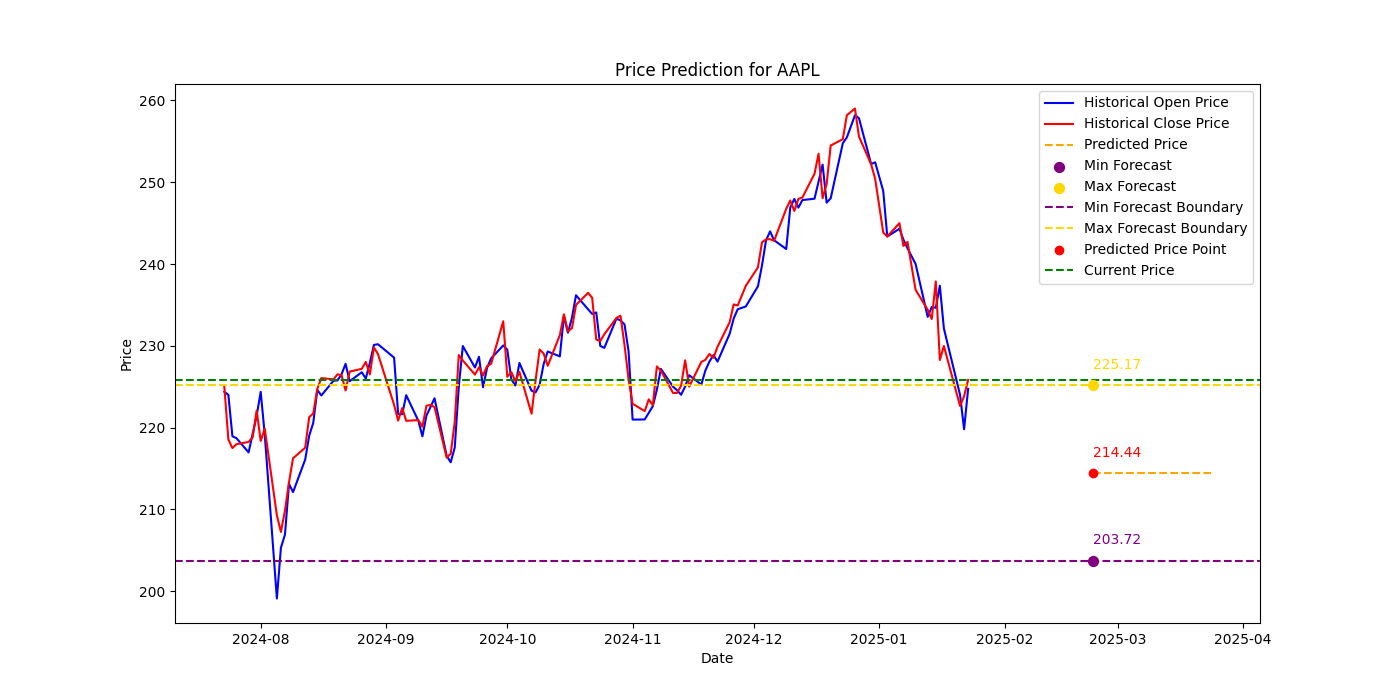
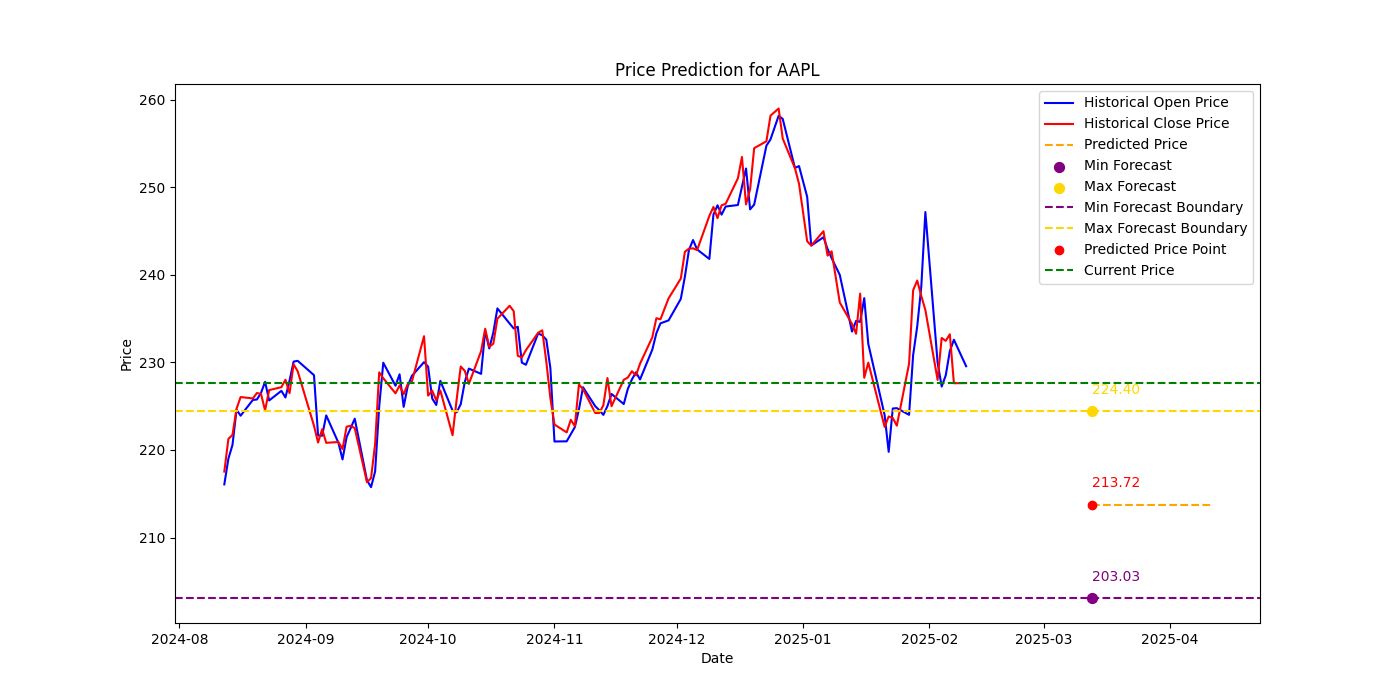
TESTING

diff --git a/src/model/price_core.py b/src/model/price_core.py
@@ -20,35 +20,40 @@ class StockPredictor:
         self.model = load_model(self.model_path)
         self.scaler = joblib.load(self.scaler_path)
 
-    def predict_price(self, ticker, window_size=365):
+
+    def predict_price(self, ticker, window_size=249):  # Set window_size to match the model's expected time steps
         end_date = datetime.now()
         start_date = end_date - timedelta(days=window_size)
 
+        # Download data
         data = yf.download(
             ticker,
             start=start_date.strftime("%Y-%m-%d"),
             end=end_date.strftime("%Y-%m-%d"),
         )
 
-        last_data = data[["Open", "Close", "High", "Low", "Adj Close", "Volume"]].values[-window_size:]
+        # Select multiple features for scaling
+        last_data = data[["Open", "High", "Low", "Close", "Volume", "Adj Close"]].values[-window_size:]
 
-        # Масштабируем данные
+        # Scale the data
         last_data_scaled = self.scaler.transform(last_data)
 
-        # Подготовка данных для модели
-        X_test = np.array([last_data_scaled])
-        X_test = np.reshape(X_test, (X_test.shape[0], X_test.shape[1], X_test.shape[2]))
+        # Prepare data for the model
+        X_test = np.array([last_data_scaled])  # Shape: (1, 249, 6)
 
-        # Предсказание вероятности
+        # Reshape to match the model's input shape
+        X_test = np.reshape(X_test, (X_test.shape[0], X_test.shape[1], X_test.shape[2]))  # Shape: (1, 249, 6)
+
+        # Predict the price
         predicted_probabilities = self.model.predict(X_test)
 
-        # Освобождаем память после предсказания
+        # Clear session to free memory
         tf.keras.backend.clear_session()
 
-        # Определяем предсказанную цену на основе вероятности
-        predicted_price = last_data[-1, 1] * (1 + (predicted_probabilities[0][0] - 0.5) * 0.1)  # Примерный расчет
+        # Calculate the predicted price
+        predicted_price = last_data[-1, 3] * (1 + (predicted_probabilities[0][0] - 0.5) * 0.1)  # Example calculation
 
-        return predicted_price, predicted_probabilities[0][0]  # Вернем предсказанную цену и вероятность
+        return float(predicted_price), float(predicted_probabilities[0][0])  # Return predicted price and probability as floats
 
     def analyze(self, ticker, threshold=0.05):
         predicted_price, predicted_probability = self.predict_price(ticker)
@@ -71,7 +76,10 @@ class StockPredictor:
         # Form the message
         message = f"Predicted price for {ticker} next month: {predicted_price:.2f}$\nCurrent price: {current_price:.2f}$\n"
 
-        logging.info(f"Probability of price increase: {predicted_probability:.2f}")
+        # Use predicted_probability directly since it's already a float
+        predicted_probability_value = predicted_probability  # No need for .item()
+
+        logging.info(f"Probability of price increase: {predicted_probability_value:.2f}")
 
         price_change_percentage = (predicted_price - current_price) / current_price
 
@@ -94,9 +102,9 @@ class StockPredictor:
             logging.error(f"No historical data found for ticker: {ticker}")
             return None
 
-        # Определяем границы прогноза (например, ±5% от предсказанной цены)
-        min_forecast = predicted_price * 0.95  # Минимум на 5% ниже
-        max_forecast = predicted_price * 1.05  # Максимум на 5% выше
+        # Define forecast boundaries
+        min_forecast = float(predicted_price * 0.95)  # Convert to float
+        max_forecast = float(predicted_price * 1.05)  # Convert to float
 
         plt.figure(figsize=(14, 7))
 
@@ -159,19 +167,19 @@ class StockPredictor:
         plt.text(
             future_dates[0],
             min_forecast + 2,
-            f"{min_forecast:.2f}",
+            f"{min_forecast:.2f}",  # This will now work
             fontsize=10,
             color="purple",
         )
         plt.text(
             future_dates[0],
             max_forecast + 2,
-            f"{max_forecast:.2f}",
+            f"{max_forecast:.2f}",  # This will now work
             fontsize=10,
             color="gold",
         )
 
-        plt.scatter(
+        plt.scatter (
             future_dates[0],
             predicted_price,
             color="red",
@@ -181,7 +189,7 @@ class StockPredictor:
         plt.text(
             future_dates[0],
             predicted_price + 2,
-            f"{predicted_price:.2f}",
+            f"{predicted_price:.2f}",  # This will now work
             fontsize=10,
             color="red",
         )

diff --git a/src/handlers.py b/src/handlers.py
@@ -65,8 +65,8 @@ async def start(client, message):
                     parse_mode=enums.ParseMode.MARKDOWN,
                 )
 
-            # start_parsing_thread(user_id)
-            # start_price_monitor_thread(user_id)
+            start_parsing_thread(user_id)
+            start_price_monitor_thread(user_id)
 
         else:
             photo_path = "resources/header.png"
